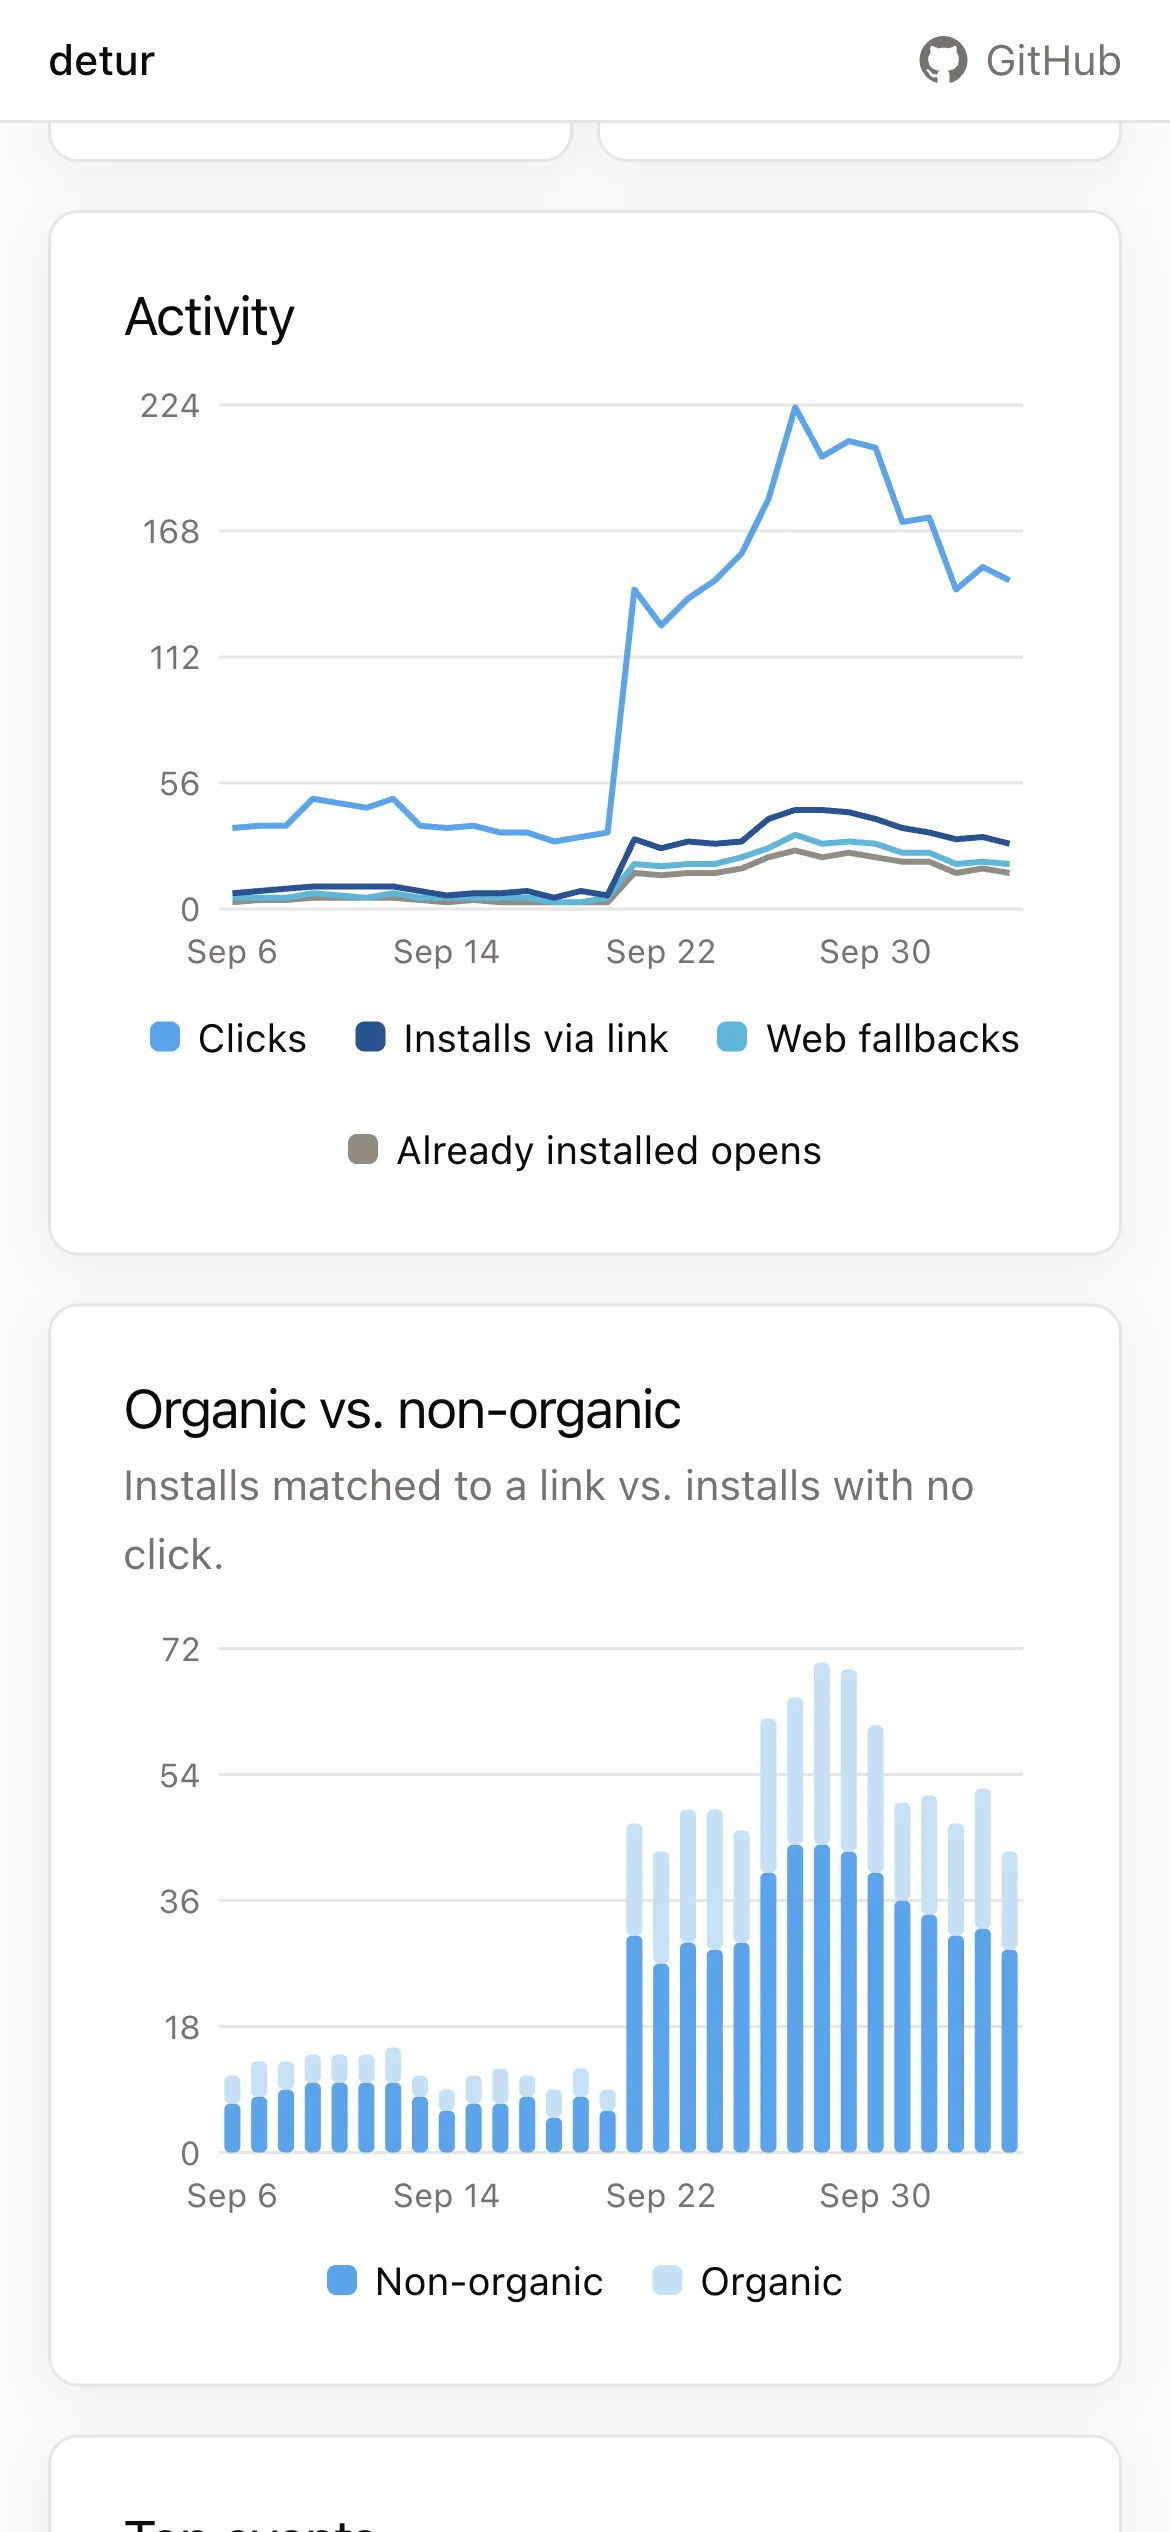
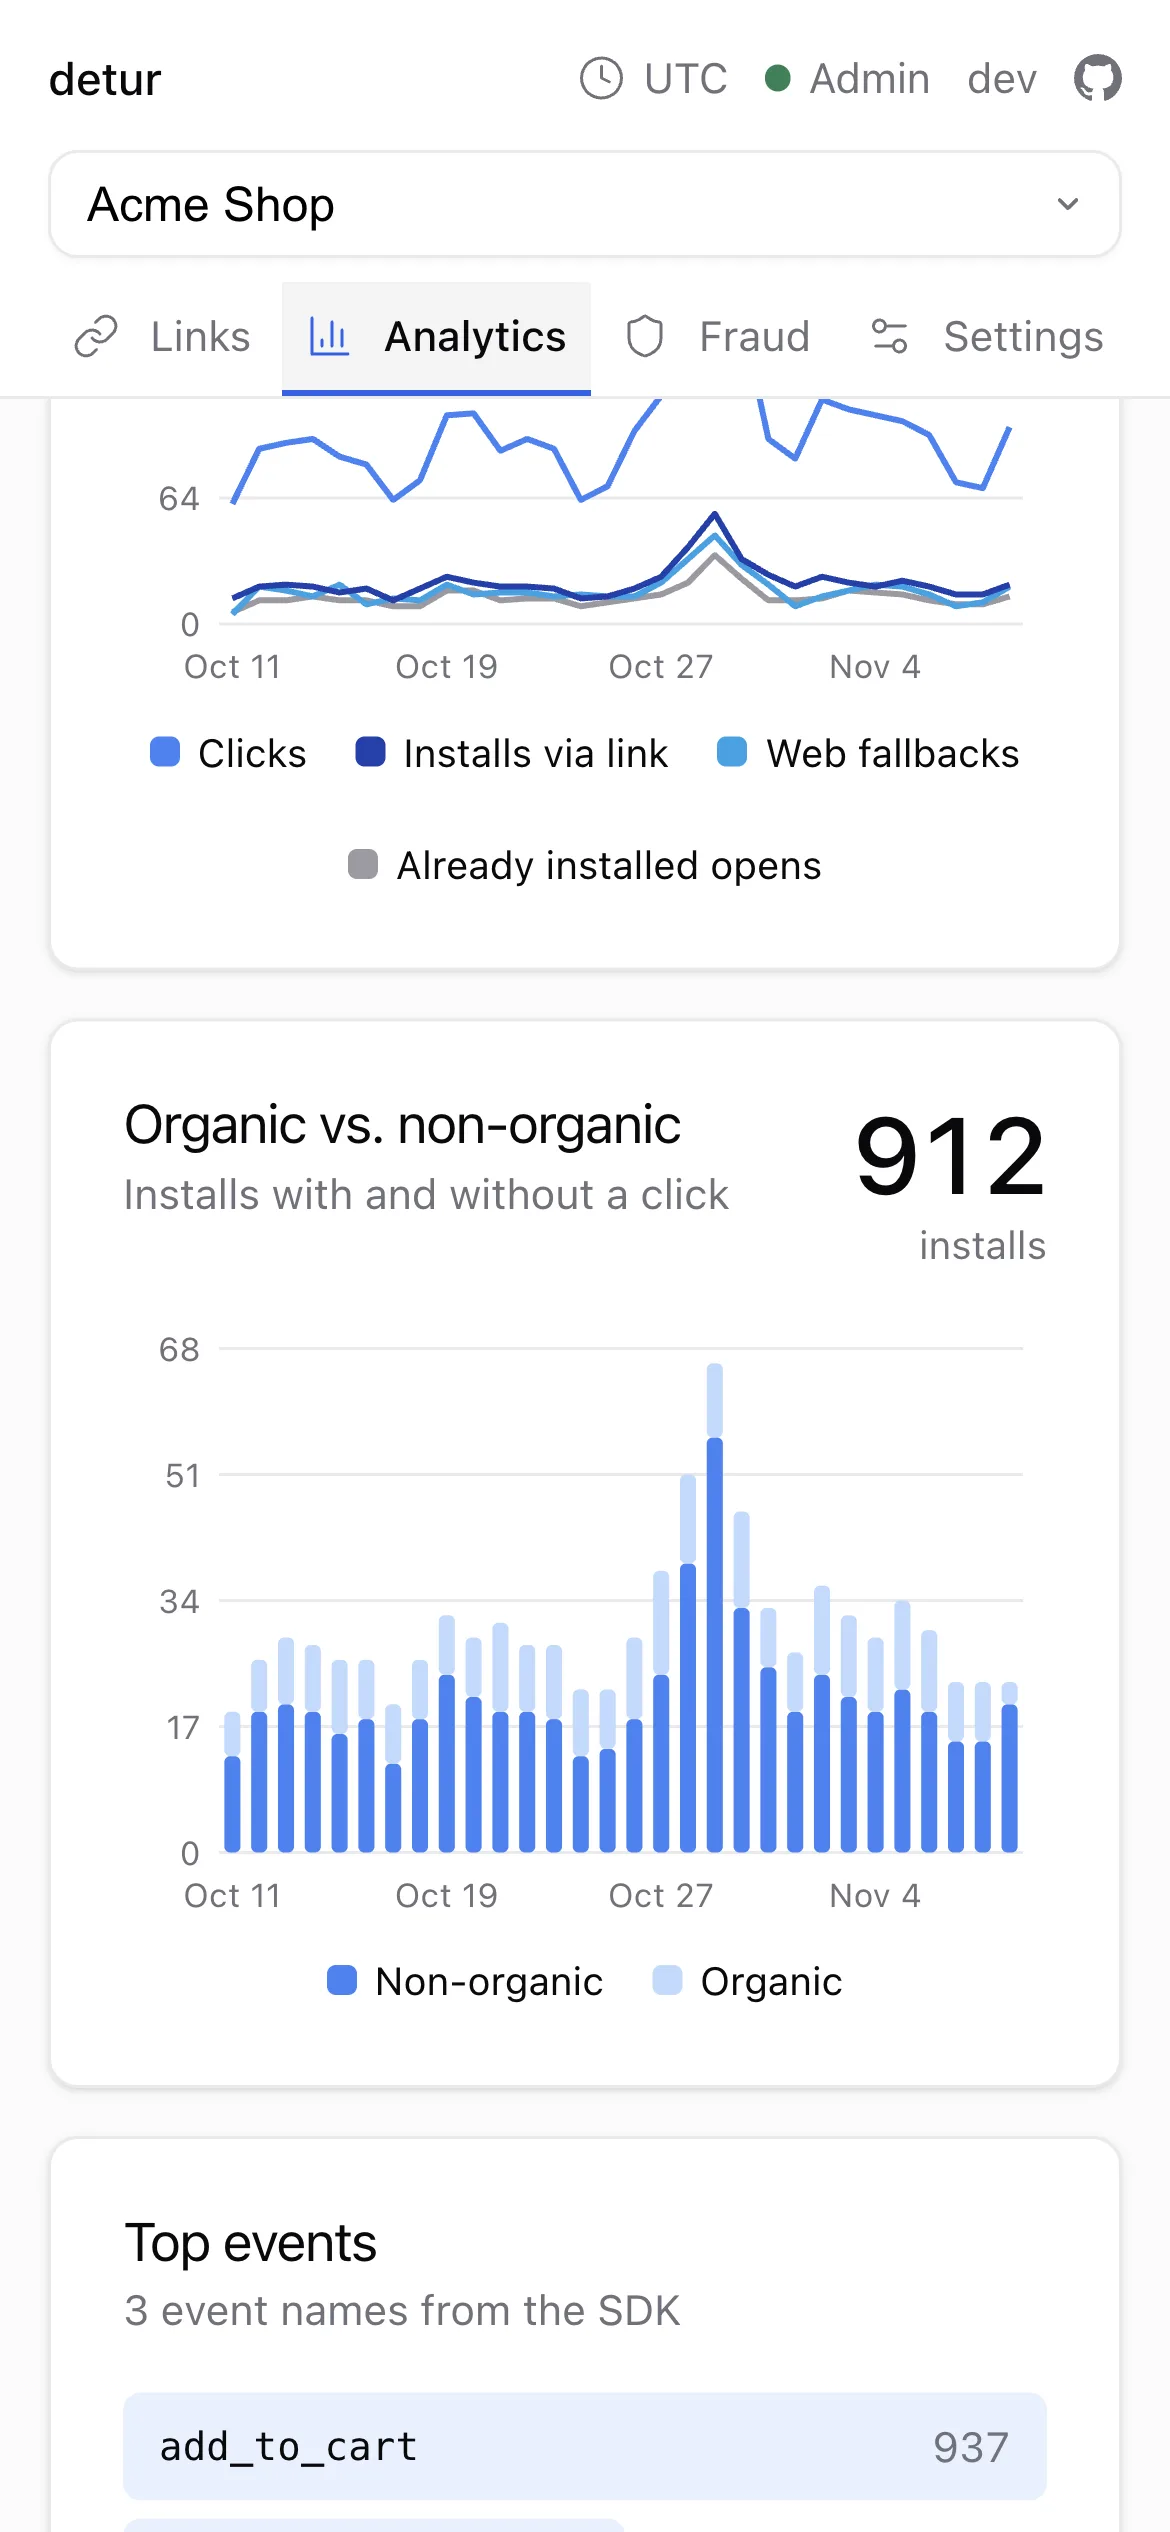
docs: 10 README preview images from a seeded demo app
Replace the 5 screenshots with 10 (apps, links, link page, rules, settings,
analytics, charts, fraud, webhooks, MCP). README arranged in two rows of five.
Plan in plans/2026-11-09-docs-preview-images-plan.md.

diff --git a/README.md b/README.md
@@ -16,20 +16,41 @@ Self-hosted, drop-in [Detour](https://detour.swmansion.com) backend for its Reac
 
 [DECISIONS.md](DECISIONS.md) · [CAVEATS.md](CAVEATS.md)
 
+**Build**
+
 <table>
   <tr>
-    <td width="20%"><img src="images/apps.webp" alt="Apps list"></td>
-    <td width="20%"><img src="images/analytics.webp" alt="Analytics: clicks, installs via link, web fallbacks"></td>
-    <td width="20%"><img src="images/charts.webp" alt="Daily activity and organic vs. non-organic installs"></td>
-    <td width="20%"><img src="images/fraud.webp" alt="Fraud signals: tagged or active per signal, thresholds inline"></td>
-    <td width="20%"><img src="images/settings.webp" alt="App settings: health, config, API key, matching"></td>
+    <td width="20%"><img src="images/apps.webp" alt="Apps list: three apps with setup status"></td>
+    <td width="20%"><img src="images/links.webp" alt="Links list filtered by tag, with clicks and matches"></td>
+    <td width="20%"><img src="images/link-page.webp" alt="Link editor: expiry and social preview"></td>
+    <td width="20%"><img src="images/rules.webp" alt="Rules: platform rule, ?ref=tiktok rule, 70/30 split"></td>
+    <td width="20%"><img src="images/settings.webp" alt="App settings: health checks for SDK, iOS, Android, AASA, proxy"></td>
   </tr>
   <tr>
     <td align="center">Apps</td>
+    <td align="center">Links</td>
+    <td align="center">Link page</td>
+    <td align="center">Rules</td>
+    <td align="center">Settings</td>
+  </tr>
+</table>
+
+**Measure and protect**
+
+<table>
+  <tr>
+    <td width="20%"><img src="images/analytics.webp" alt="Analytics: clicks, installs via link, web fallbacks"></td>
+    <td width="20%"><img src="images/charts.webp" alt="Daily activity and organic vs. non-organic installs"></td>
+    <td width="20%"><img src="images/fraud.webp" alt="Fraud signals: tagged or active per signal, thresholds inline"></td>
+    <td width="20%"><img src="images/webhooks.webp" alt="Webhooks: one active endpoint, one retrying"></td>
+    <td width="20%"><img src="images/mcp.webp" alt="API token and MCP connect snippet"></td>
+  </tr>
+  <tr>
     <td align="center">Analytics</td>
     <td align="center">Charts</td>
     <td align="center">Fraud</td>
-    <td align="center">Settings</td>
+    <td align="center">Webhooks</td>
+    <td align="center">API + MCP</td>
   </tr>
 </table>
 
